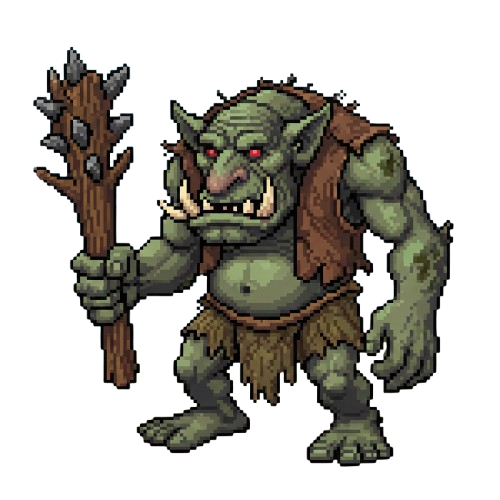
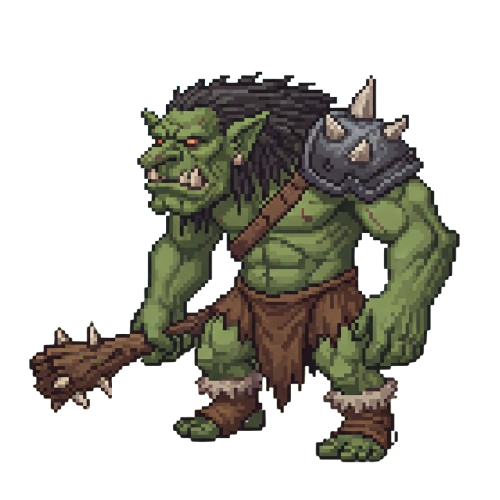
fix: modified troll assets and monsters behavior

diff --git a/project/controller.py b/project/controller.py
@@ -1,11 +1,13 @@
 import os
+from random import randint
+
 import pygame
 import json
 
 from items import Weapon
 from characters import Warrior, Cleric, Thief, Wizard
 from datatypes import Stats, Buff
-from monsters import Goblin
+from monsters import Goblin, Witch, Spider, Zombie, Troll
 from view import BaseSprite, SpriteState, CharacterCard, InventoryCard, ProjectileSprite
 from game_state import GameState
 
@@ -45,7 +47,6 @@ class GameController:
 
         self.load_data()
         self.create_cards()
-        self.create_enemy()
 
     @staticmethod
     def asset_path(*args):
@@ -127,7 +128,7 @@ class GameController:
 
     @staticmethod
     def create_monster(data):
-        cls_map = {"Goblin": Goblin, "Cleric": Cleric, "Thief": Thief, "Wizard": Wizard}
+        cls_map = {"Goblin": Goblin, "Witch": Witch, "Spider": Spider, "Zombie": Zombie, "Troll": Troll}
         cls = cls_map.get(data["class"])
 
         kwargs = {
@@ -135,8 +136,17 @@ class GameController:
             "hp": data["hp"],
             "base_damage": data["base_damage"],
             "bonus_damage": data["bonus_damage"],
-            "speed": data["speed"]
+            "speed": data["speed"],
+            "equipment": {"weapon": None, "armor": None},
+            "level": 1
         }
+
+        if cls is Goblin:
+            kwargs["buff_stole_per_turn"] = data["buff_stole_per_turn"]
+        elif cls is Troll:
+            kwargs["brute_force"] = data["brute_force"]
+
+        return cls(**kwargs)
 
     def load_data(self):
         with open(self.asset_path("..", "data", "characters.json")) as f:
@@ -150,6 +160,10 @@ class GameController:
         with open(self.asset_path("..", "data", "projectiles.json")) as f:
             projectiles_data = json.load(f)
         self.projectile = projectiles_data
+
+        with open(self.asset_path("..", "data", "monsters.json")) as f:
+            monsters_data = json.load(f)
+        self.monsters = [self.create_monster(d) for d in monsters_data]
 
         for char in self.characters:
             if isinstance(char, Warrior):
@@ -211,28 +225,19 @@ class GameController:
             for i in range(5)
         ]
 
-    def create_enemy(self):
-        self.goblin_model = Goblin(
-            name="Goblin",
-            hp=50,
-            base_damage=8,
-            bonus_damage=4,
-            equipment={},
-            buff_stole_per_turn=1,
-            level=1,
-            speed=20
+    def create_enemy(self, model, frames):
+        self.enemy_sprite = BaseSprite(
+            model,
+            (600, 500),
+            frames
         )
 
-        self.enemy_sprite = BaseSprite(
-            self.goblin_model,
-            (600, 500),
-            frames={
-                "idle": self.asset_path("..", "assets", "goblin", "goblin_1.png"),
-                "walk_1": self.asset_path("..", "assets", "goblin", "goblin_2.png"),
-                "walk_2": self.asset_path("..", "assets", "goblin", "goblin_3.png"),
-                "attack": self.asset_path("..", "assets", "goblin", "goblin_4.png")
-            }
-        )
+    # da sistemare
+    def choose_enemy(self):
+        if randint(0, 1) == 1:
+            self.create_enemy(self.monsters[0], self.get_frames_for_character(self.monsters[0]))
+        else:
+            self.create_enemy(self.monsters[1], self.get_frames_for_character(self.monsters[1]))
 
     def get_frames_for_character(self, char):
         folder = char.__class__.__name__.lower()
@@ -271,6 +276,7 @@ class GameController:
             if self.game_state == GameState.CHARACTER_SELECT and event.type == pygame.MOUSEBUTTONDOWN:
                 for character_card in self.characters_cards:
                     if character_card.is_clicked(event.pos):
+                        self.choose_enemy()
                         self.selected_hero = character_card.model
                         frames = self.get_frames_for_character(self.selected_hero)
                         self.hero_sprite = BaseSprite(self.selected_hero, (200, 490), frames)
@@ -331,7 +337,7 @@ class GameController:
                     self.turn = "player"
                     self.enemy_sprite.has_attacked = False
 
-            if self.hero_sprite.model.hp <= 0 or self.goblin_model.hp <= 0:
+            if self.hero_sprite.model.hp <= 0 or self.enemy_sprite.model.hp <= 0:
                 self.running = False
 
     # ---------- RENDER ----------

diff --git a/project/view.py b/project/view.py
@@ -185,6 +185,9 @@ class BaseSprite(pygame.sprite.Sprite):
 
     def __init__(self, model, coordinates: tuple[int, int], frames: dict):
         super().__init__()
+        if model.name == "Troll":
+            self.SIZE_X *= 1.5
+            self.SIZE_Y *= 1.5
         self.is_ranged_attack = False
         self.model = model
         self.SPEED = self.model.speed * 10
